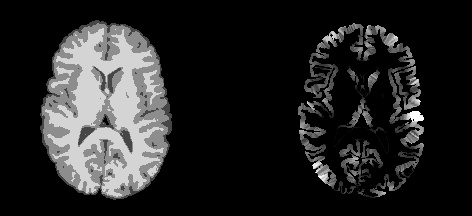
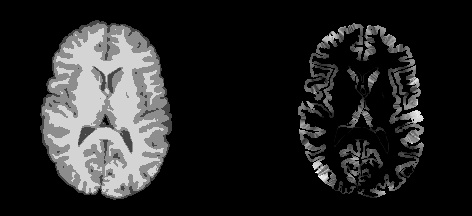
ENH: examples & thickness update

diff --git a/tex/ants_multimodality.tex b/tex/ants_multimodality.tex
@@ -330,7 +330,7 @@ Atropos -d 2 -a r16slice.nii.gz -x r16mask.nii.gz \newline
 
 
 \begin{frame}
-\frametitle{Segmenting an image}
+\frametitle{Segmenting anatomy from an image}
 See  examples/segmentation\_example.sh
 \lstinputlisting{segmentation_example_input.tex}
 \begin{center}
@@ -339,7 +339,7 @@ See  examples/segmentation\_example.sh
 \end{frame}
 
 \begin{frame}
-\frametitle{Segmenting an image with $N$ modalities}
+\frametitle{Multivariate anatomical segmentation}
 See  examples/segmentation2\_example.sh
 \lstinputlisting{segmentation2_example_input.tex}
 \begin{center}
@@ -390,6 +390,11 @@ But isn't ANTs all about transformations and templates?
 \begin{frame}
 \frametitle{Template-based transformations}
 \includegraphics[width=4.5in]{../figures/car_example.pdf}
+\end{frame}
+
+\begin{frame}
+\frametitle{How did we compute that transformation?}
+\lstinputlisting{cars.sh}
 \end{frame}
 
 
@@ -498,6 +503,19 @@ See  examples/registration\_lm\_example.sh
 
 
 \begin{frame}
+\frametitle{Other Landmark-based registration tools}
+\begin{itemize}
+\item for 3D
+\item ANTSUseLandmarkImagesToGetAffineTransform lm1.nii.gz lm2.nii.gz affine outaffine.txt
+\item ANTSUseLandmarkImagesToBSplineDisplacementField outLMWarp.nii.gz
+  10x10x10 6 3 0
+\item Then use WarpImageMultiTransform / antsApplyTransform to apply
+  the warp to the relevant image.
+\end{itemize}
+\end{frame}
+
+
+\begin{frame}
 \frametitle{Template construction}
 group studies 
 \end{frame}
@@ -544,6 +562,30 @@ See  examples/motioncorr\_example.sh
 \begin{frame}
 \frametitle{Time series / rsfMRI analysis with ANTs}
 \includegraphics[width=4in]{../figures/rsfmriplot2.pdf}
+\end{frame}
+
+\begin{frame}
+\frametitle{Extracting a resting state network}
+   ImageMath 4 compcorr.nii.gz CompCorrAuto motioncorrected.nii.gz   brainmask 6
+   \newline
+   \newline
+   N3BiasFieldCorrection 3 imgavg imgavg 2 brainmask 
+   \newline
+   \newline
+  Atropos -d 3 -a imgavg -a compcorr\_variance.nii.gz -m  [0.3,1x1x1] -o [seg.nii.gz,prob\_ \%02d.nii.gz] -c [5,0] -i kmeans[3] -x brainmask 
+   \newline
+   \newline
+   ThresholdImage 3 prob\_02.nii.gz cortmask.nii.gz 0.1 1.0
+     \newline
+   \newline
+   sccan  --timeseriesimage-to-matrix [ motioncorrected.nii.gz,
+   cortmask.nii.gz, 5.0 , 0.0 ] -o out.csv 
+   \newline
+   \newline
+   sccan  --svd sparse[ out.csv, cortmask.nii.gz, -0.05 ] -n 40 -i 40  --PClusterThresh 100  -o RSF\_Nodes.nii.gz
+   \newline
+   \newline
+   Then build a graph ( see iGraph ).
 \end{frame}
 
 

diff --git a/tex/thickness_example_input.tex b/tex/thickness_example_input.tex
@@ -1,1 +1,1 @@
-KellyKapowski -d $dim -s ${out}.nii.gz -g ${out}prob02.nii.gz  -w ${out}prob03.nii.gz -o ${out}thickness.nii.gz -c [30,0] -r 0.5 -m 1.5 
+KellyKapowski -d $dim -s ${out}.nii.gz -g ${out}prob02.nii.gz  -w ${out}prob03.nii.gz -o ${out}thickness.nii.gz -c [30,0] -r 0.5 -m 1.0 
